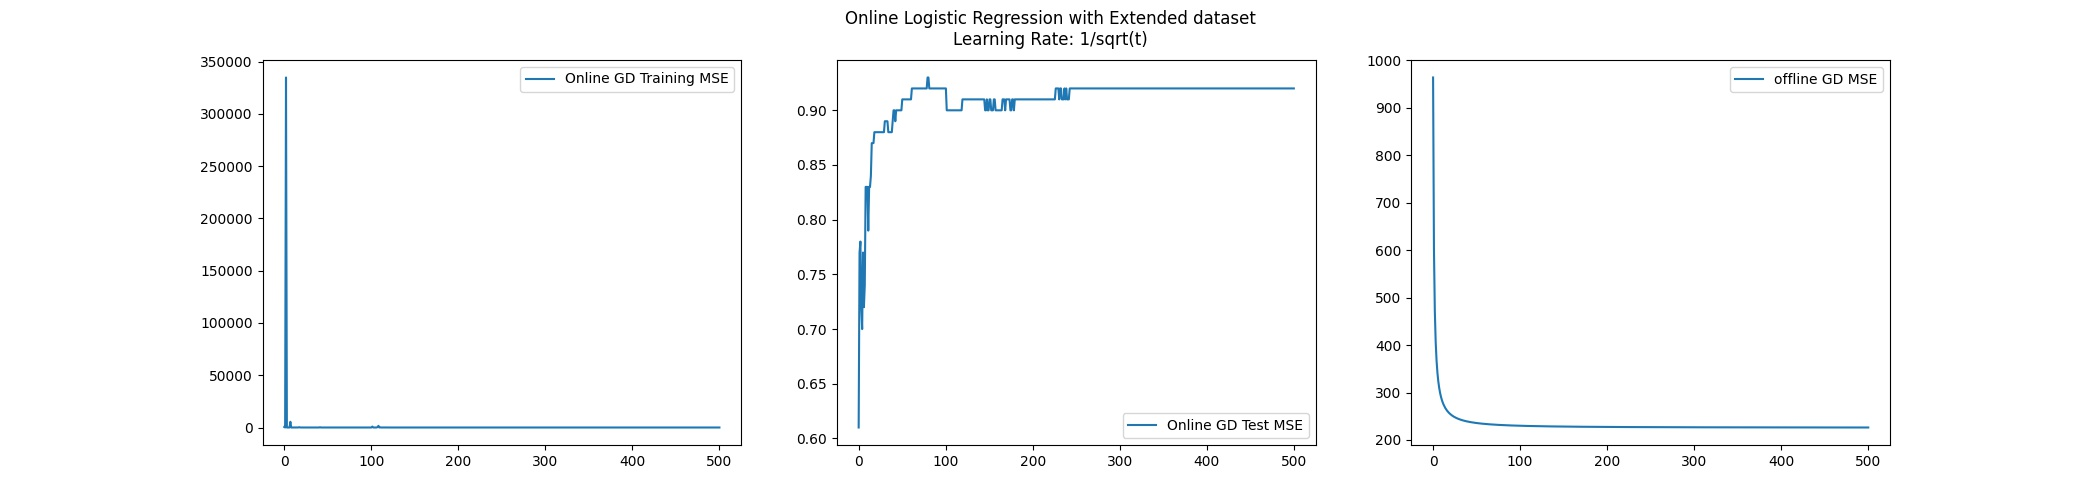
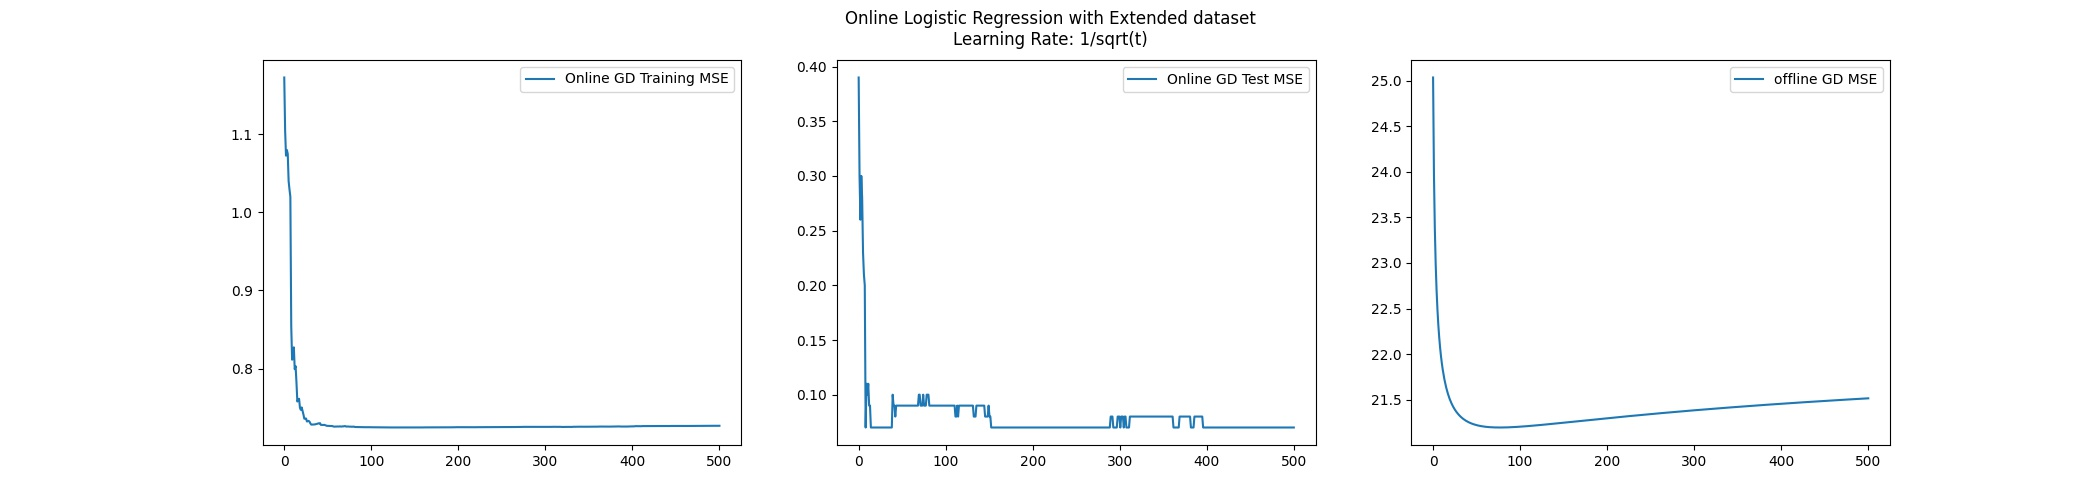
bugs fixed! ROC curve added! the sigmoid function was not implemented right!

diff --git a/HW2/scripts/main2_5.py b/HW2/scripts/main2_5.py
@@ -2,6 +2,7 @@
 
 from ast import arguments
 from cmath import inf
+from tkinter import Y
 import pandas as pd
 import numpy as np
 import matplotlib.pyplot as plt
@@ -154,9 +155,9 @@ class LR:
         y : array_like
             the classified value corresponding to each x input
         """
-        y = 1 / (1 + -np.exp(w.T @ x))
+        y = 1 / (1 + np.exp(-w.T @ x))
         ## remove infinity values (caused by zero division)
-        y = np.where(y == inf, 0, y)
+        y = np.where(y == inf, 1, y)
 
         return y
 
@@ -426,6 +427,93 @@ def get_OfflineGD_iterations(string_argument):
 
     return iter
 
+class report:
+    def __init__(self, X, Y, Weights, description) -> None:
+        """
+        initialize the `X` inputs and `Y` labels and `Weights`
+        the `description` is used for the figure file 
+        """
+        self.X = X
+        self.Y = Y
+        self.Weights = Weights
+        self.description = description
+
+        df_scores = self.__ROC_df()
+        self.__export_ROC_Curve(df_scores)
+
+    def __ROC_df(self):
+        """
+        Find the confusion matrix for each threshold (ROC)
+
+        Returns:
+        ---------
+        df_scores : pandas dataframe
+            dataframe contains the confusion matrix for different thresholds
+        """
+
+        scores = []
+        y = self.Y
+        y_pred = self.__LRGD_discriminant_func(self.Weights, self.X.T)
+
+        ## find the values for each threshold
+        ## TP -> True Positive
+        ## TN -> True Negative
+        ## FP -> False Positive
+        ## FN -> False Negative
+        for threshold in np.linspace(0, 1, 50):
+            TP = ((y_pred >= threshold) & (y == 1)).sum()
+            TN = ((y_pred <= threshold) & (y == 0)).sum()
+            FP = ((y_pred > threshold) & (y == 0)).sum()
+            FN = ((y_pred < threshold) & (y == 0)).sum()
+
+            scores.append([threshold, TP, TN, FP, FN])
+        
+        df_cols = ['threshold', 'TP', 'TN', 'FP', 'FN']
+        df_scores = pd.DataFrame(scores, columns=df_cols)
+
+        ## sensitivity and specificity
+        ## True Positive rate = sensitivity
+        df_scores['sens'] = df_scores.TP / (df_scores.TP + df_scores.FN)
+        ## False Positive rate = 1 - specificity
+        df_scores['1-spec'] = df_scores.FP / (df_scores.FP + df_scores.TN)
+        
+        # print(df_scores)
+
+        return df_scores
+
+    def __export_ROC_Curve(self, df_scores):
+        """
+        save the roc curve using the dataframe scores
+        """
+
+        plt.plot(df_scores['sens'], df_scores['1-spec'])
+        plt.title(f'ROC Curve for {self.description}')
+        plt.savefig(f'main_2_5_ROC_{self.description}.png')
+        plt.close()
+
+
+    def __LRGD_discriminant_func(self, w, x):
+        """
+        the discriminant function for Logistic Regression
+        the exponential function is used
+
+        Parameters:
+        ------------
+        w : array_like
+            weights of the function
+        x : array_like
+            the input values
+
+        Returns:
+        ---------
+        y : array_like
+            the classified value corresponding to each x input
+        """
+        y = 1 / (1 + np.exp(-w.T @ x))
+        ## remove infinity values (caused by zero division)
+        y = np.where(y == inf, 1, y)
+
+        return y
 
 if __name__ == '__main__':
     ##################################### Retreiving arguments #####################################
@@ -504,6 +592,7 @@ if __name__ == '__main__':
     print('\n Final wights of Offline Gradient Descent Learning')
     print(weights)
 
+    report(X_train, Y_train, weights, 'Gradient_descent_logisticRegression')
     
     print('----------' * DELIMITER_SIZE)
     print('----------' * DELIMITER_SIZE)
@@ -513,15 +602,17 @@ if __name__ == '__main__':
     ## the initial weights
     initial_weights = np.zeros(len(X_train.columns))
 
-    print('  Training Error')
+    print('  Training Error:')
     ## the IL stands for Incremental Learning
     w_IL, mse = lr.solve_incremental(initial_weights, partial = 50, learning_rate_mode=learning_rate_mode, iter=iterations)
-    print(f'  {mse[-1:]}')
+    print(f'   {mse[-1:]}')
 
-    print('  Test Error')
+    print('  Test Error:')
     ## prediction of the test set Incremental Learning
     Y_pred_test_IL, Y_pred_test_IL_mse = lr.predict(w_IL, method=2)
-    print(f'  {Y_pred_test_IL_mse}')
+    print(f'   {Y_pred_test_IL_mse}')
+    report(X_train, Y_train, w_IL, 'Online_Gradient_descent_logisticRegression')
+
     
 
     print('\n Final wights of Incremental Learning')
@@ -532,7 +623,7 @@ if __name__ == '__main__':
 
     ## plot loss
     if mse:
-        print("Plotting Training and Test Loss")
+        # print("Plotting Training and Test Loss")
         mse = np.array(mse)
 
         xticks = np.linspace(0, iterations, iterations)
@@ -561,7 +652,7 @@ if __name__ == '__main__':
         file_name = learning_rate_equation.replace(' ', '_')
         file_name = file_name.replace('/', '-')
         plt.savefig(f'main2_5_{file_name}.jpg')
-        plt.show()    
+        plt.close()
 
 
 
